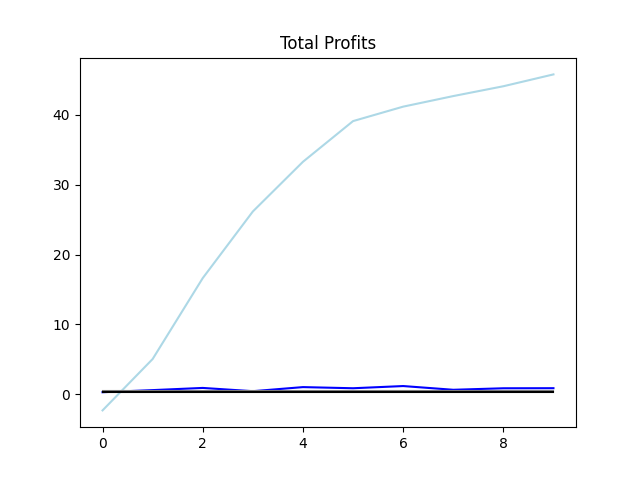
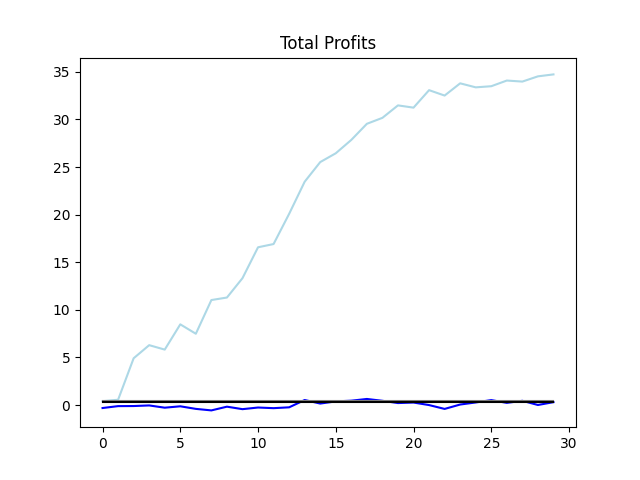
let's get ready to ruuuuuuumble

diff --git a/main.py b/main.py
@@ -45,7 +45,8 @@ def run_evaluations(model: DQN, index: str, symbol: str, dataset: str,
     plt.plot(list(range(len(running_profits))), running_profits, label="Trading Agent", color="blue")
     plt.plot(list(range(len(mkt_running_profits))), mkt_running_profits, label="MKT", color="black")
     plt.legend()
-    plt.savefig("plots/evaluation.png")
+    # plt.savefig("plots/evaluation.png")
+    plt.savefig(f"plots/{index}_ep_{config['EPISODES']}_evaluation.png")
     plt.title("Eval Profits")
     plt.show()
 
@@ -89,13 +90,15 @@ def run_training(model: DQN, index: str, symbol: str,
 
     plt.plot(list(range(len(losses))), losses)
     plt.title("Losses")
-    plt.savefig("plots/losses.png")
+    plt.savefig(f"plots/{index}_ep_{config['EPISODES']}_losses.png")
+    # plt.savefig("plots/losses.png")
     plt.show()
 
     plt.plot(list(range(len(rewards))), rewards, label="Training", color="lightblue")
     plt.plot(list(range(len(val_rewards))), val_rewards, label="Validation", color="blue")
     plt.title("Rewards")
-    plt.savefig("plots/rewards.png")
+    plt.savefig(f"plots/{index}_ep_{config['EPISODES']}_rewards.png")
+    # plt.savefig("plots/rewards.png")
     plt.legend()
     plt.show()
 
@@ -106,7 +109,7 @@ def run_training(model: DQN, index: str, symbol: str,
     plt.plot(list(range(len(val_profits))), len(val_profits) * [mkt_valid_total_profits], label="MKT-Valid",
              color="black")
     plt.title("Total Profits")
-    plt.savefig("plots/profits.png")
+    plt.savefig(f"plots/{index}_ep_{config['EPISODES']}_profits.png")
     plt.legend()
     plt.show()
     return model
@@ -159,6 +162,4 @@ if __name__ == '__main__':
         'use strategy': False
     }
 
-    # run_experiment(**experiment_args)
-    run_nenq_on_index(index='djia', symbol='^DJI', train_set='train', eval_set='valid',
-                      path=config["STONK_PATH"], splits=config["STONK_INDEX_SPLITS"])
+    run_experiment(**experiment_args)
